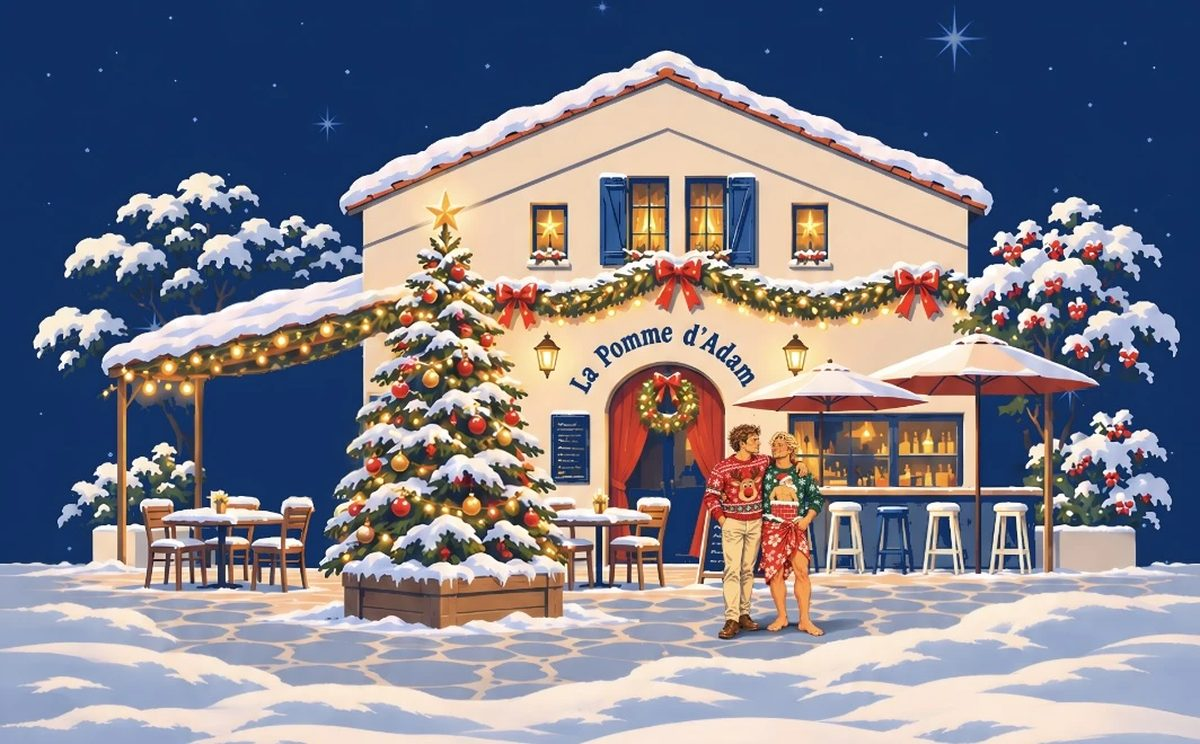
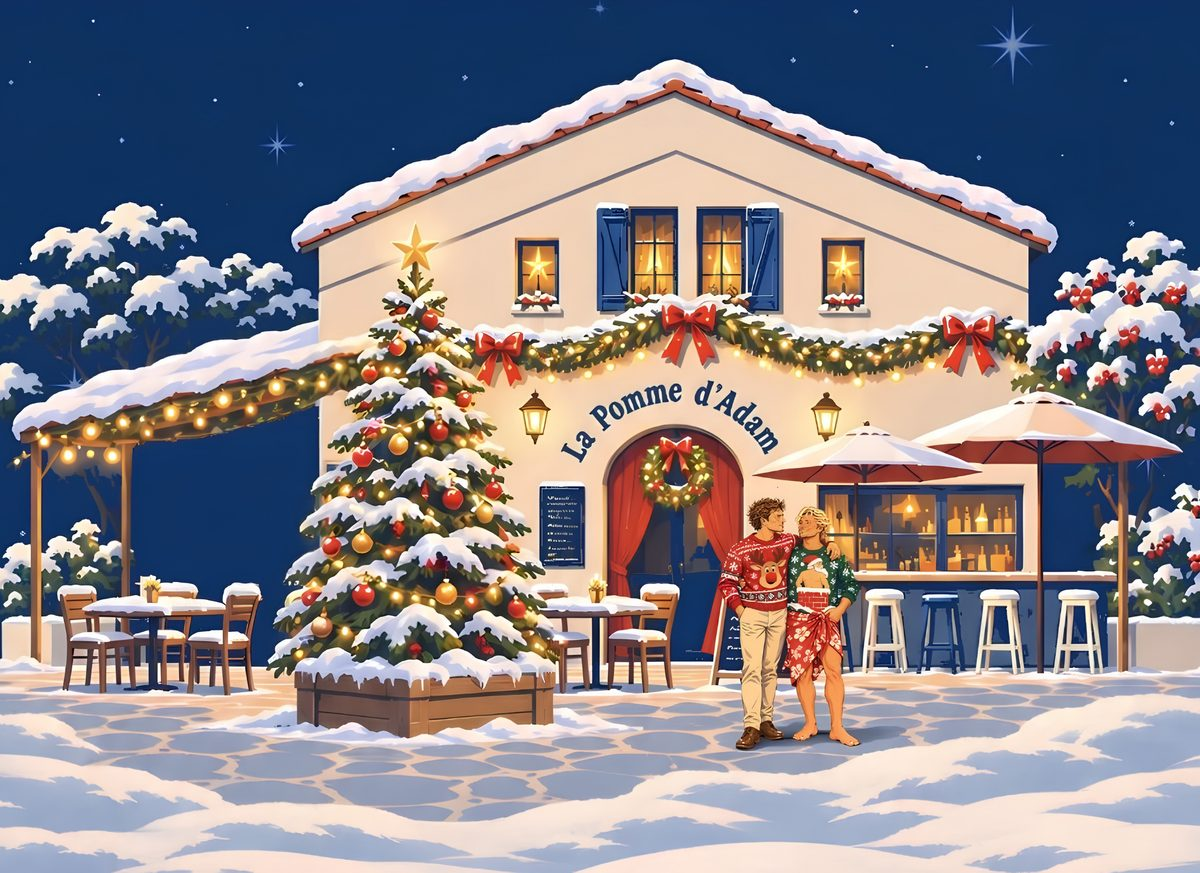
Accueil : nouvelle illustration large de la Pomme d'Adam sous la neige
Image responsive (800/1400/2400 px, version resserrée sur mobile),
fondu dans le ciel étoilé, image de partage et en-tête d'e-mail mis à jour.

Claude-Session: https://claude.ai/code/session_01JGX1JDC6tYxUkoXJZ7kFae

diff --git a/index.html b/index.html
@@ -49,7 +49,10 @@
 <a class="btn btn-ligne-blanc" href="/premier-noel-au-levant">Découvrir le livre</a>
 </div>
 </div>
-<img class="scene" src="/img/t15-scene.webp" width="1064" height="660" alt="La Pomme d'Adam sous la neige, illuminée pour Noël, avec Marc et Paul devant la terrasse" fetchpriority="high">
+<picture>
+<source media="(max-width: 700px)" srcset="/img/t15-scene.webp" width="1064" height="660">
+<img class="scene" src="/img/une-noel-1400.webp" srcset="/img/une-noel-800.webp 800w, /img/une-noel-1400.webp 1400w, /img/une-noel-2400.webp 2400w" sizes="100vw" width="2400" height="1082" alt="La Pomme d'Adam sous la neige, illuminée pour Noël, avec Marc et Paul devant la terrasse" fetchpriority="high">
+</picture>
 </section>
 
 <section class="livres bande-creme" id="livres">

diff --git a/css/style.css b/css/style.css
@@ -75,6 +75,7 @@ p{margin:0}
 .une .tagline{font-family:var(--condensed);font-weight:700;font-size:clamp(24px,2.6vw,30px);line-height:1.15}
 .une .btns{justify-content:center;margin-top:8px}
 .scene{width:100%}
+.une .scene{-webkit-mask-image:linear-gradient(to bottom,transparent 0,#000 22%);mask-image:linear-gradient(to bottom,transparent 0,#000 22%)}
 
 /* Guirlande */
 .guirlande{display:block;width:100%;height:56px}
